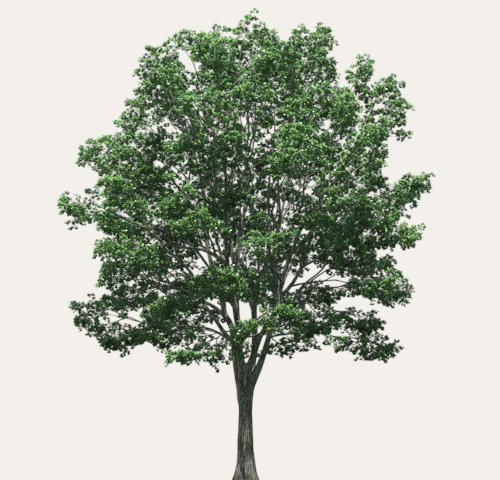
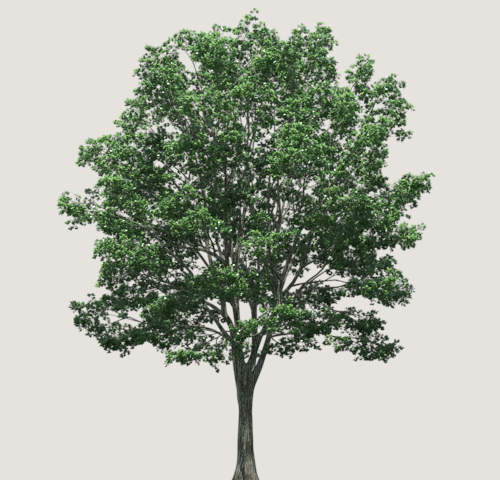
3rd section design done, work with wiki api query

diff --git a/javascript/script.js b/javascript/script.js
@@ -219,17 +219,19 @@ function showInfo(e) {
   if (text === city.querySelector(".city__information--unloaded")) {
     // console.log("unloaded");
 
+    const span = document.createElement('span');
     const info = document.createElement('p');
     const link = document.createElement('a');
     info.classList.add("info");
     link.classList.add("link");
 
-    link.innerText = "More informations";
-
     getDataFromWiki(cityName, info, link).then(function(response) {
-      text.appendChild(info);
-      text.appendChild(link);
-
+      span.append(info);
+      span.append(link);
+      text.appendChild(span);
+      // text.appendChild(link);
+      return response;
+    }).then(function(response) {
       text.classList.remove("city__information--unloaded");
       text.classList.toggle("city__information--hidden");
       return response;
@@ -243,40 +245,42 @@ function showInfo(e) {
 
 async function getDataFromWiki(cityName, info, link) {
   let url = `https://en.wikipedia.org/w/api.php?origin=*&action=opensearch&search=${cityName}&limit=1&namespace=0&format=json`;
+  // let imgUrl = `https://en.wikipedia.org/w/api.php?origin=*&format=json&action=query&prop=extracts&exintro&explaintext&redirects=1&titles=${cityName}`;
 
-  // let params = {
-  //   action: "opensearch",
-  //   search: cityName,
-  //   limit: "1",
-  //   namespace: "0",
-  //   format: "json"
-  // };
+  fetch(url).then(function(response) {
+    return response.json();
+  }).then(function(response) {
+    // console.log(response.query.pages[90580].extract);
+    console.log(response)
+  })
 
-  // url = url + "?origin=*";
-  // Object.keys(params).forEach(function(key){url += "&" + key + "=" + params[key];});
-
-  fetch(url)
-    .then(function(response){return response.json();})
-    .then(function(response) {
-      // console.log(response);
-      if (response[2][0] === "") {
-        info.innerText = "Sorry we cannot find any short information about this city. Please check full version of article here:";  
-      } else if(response[2][0] === undefined && response[3][0] === undefined){
-        info.innerText = "Sorry we cannot find any information about this city."; 
-      } else {
-        info.innerText = response[2][0];
-      }
-      return response;
-    })
-    .then(function(response) {
-      if (response[3][0] === undefined) {
-        link.classList.add("link--hidden");
-      } else {
-        link.href = response[3][0];
-      }
-      return response;
-    })
-    .catch(function(error){console.log(error);});
+  // fetch(url)
+  //   .then(function(response){
+  //     return response.json();
+  //   })
+  //   .then(function(response) {
+  //     // console.log(response);
+  //     if (response[2][0] === "") {
+  //       info.innerText = "Sorry we cannot find any short information about this city. Please check full version of article here:";  
+  //     } else if(response[2][0] === undefined && response[3][0] === undefined){
+  //       info.innerText = "Sorry we cannot find any information about this city."; 
+  //     } else {
+  //       info.innerText = response[2][0];
+  //     }
+  //     return response;
+  //   })
+  //   .then(function(response) {
+  //     if (response[3][0] === undefined) {
+  //       link.classList.add("link--hidden");
+  //     } else {
+  //       link.innerText = "More informations";
+  //       link.href = response[3][0];
+  //     }
+  //     return response;
+  //   })
+  //   .catch(function(error){
+  //     console.log(error);
+  //   });
 }
 
 

diff --git a/css/desktop.scss b/css/desktop.scss
@@ -1,4 +1,4 @@
-$light: rgb(243, 240, 235);
+$light: rgb(230, 227, 223);
 $green: rgb(27, 177, 109);
 $darkpurple: rgba(81, 59, 86, 1);
 
@@ -105,7 +105,6 @@ $darkpurple: rgba(81, 59, 86, 1);
 
         &__background {
             position: absolute;
-            // translate: transform(-50%, -50%);
             top: 0;
             left: 0;
             clip-path: polygon(0 0, 20% 0, 100% 100%, 0 100%);
@@ -115,6 +114,47 @@ $darkpurple: rgba(81, 59, 86, 1);
             background-image: url("../images/countryside-wallpaper-6.jpg");
             background-position: center;
             background-size: cover;
+        }
+    }
+
+    // main section (informations about cities)
+    .cities {
+        display: grid;
+        grid-template-columns: repeat(3, 1fr);
+        row-gap: 50px;
+        padding: 50px 15px;
+        justify-content: center;
+
+
+        .city {
+            margin: 0 auto;
+            min-height: 100px;
+
+            &__header {
+                // margin-top: 15px;
+                // margin-bottom: 15px;
+                font-size: 3rem;
+            }
+
+            &:nth-child(odd) {
+                grid-column: 1/3;
+            }
+
+            &:nth-child(even) {
+                grid-column: 2/4;
+            }
+
+            &__information {
+                font-size: 2rem;
+
+                .info {
+                    font-size: 2rem;
+                }
+
+                .link {
+                    margin-bottom: 15px;
+                }
+            }
         }
     }
 }

diff --git a/css/desktop.css b/css/desktop.css
@@ -61,7 +61,7 @@
   }
   .navigation .choice__button:hover {
     background-color: #513b56;
-    color: #f3f0eb;
+    color: #e6e3df;
   }
   .navigation .choice .disabled {
     border-color: grey;
@@ -83,5 +83,34 @@
     background-image: url("../images/countryside-wallpaper-6.jpg");
     background-position: center;
     background-size: cover;
+  }
+  .cities {
+    display: grid;
+    grid-template-columns: repeat(3, 1fr);
+    row-gap: 50px;
+    padding: 50px 15px;
+    justify-content: center;
+  }
+  .cities .city {
+    margin: 0 auto;
+    min-height: 100px;
+  }
+  .cities .city__header {
+    font-size: 3rem;
+  }
+  .cities .city:nth-child(odd) {
+    grid-column: 1/3;
+  }
+  .cities .city:nth-child(even) {
+    grid-column: 2/4;
+  }
+  .cities .city__information {
+    font-size: 2rem;
+  }
+  .cities .city__information .info {
+    font-size: 2rem;
+  }
+  .cities .city__information .link {
+    margin-bottom: 15px;
   }
 }

diff --git a/css/style.scss b/css/style.scss
@@ -1,4 +1,4 @@
-$light: rgb(243, 240, 235);
+$light: rgb(230, 227, 223);
 $green: rgb(27, 177, 109);
 $darkpurple: rgba(81, 59, 86, 1);
 $fullscreen: calc(var(--vh, 1vh) * 100);
@@ -203,7 +203,7 @@ body {
 
 .city {
     background-color: rgba(156, 155, 150, 0.151);
-    padding: 10px 5px;
+    padding: 20px 5px;
     height: auto;
     width: 90%;
     color: $green;

diff --git a/css/style.css b/css/style.css
@@ -13,7 +13,7 @@
 
 body {
   width: 100vw;
-  background-color: #f3f0eb;
+  background-color: #e6e3df;
   overflow-x: hidden;
 }
 
@@ -187,7 +187,7 @@ body {
 
 .city {
   background-color: rgba(156, 155, 150, 0.151);
-  padding: 10px 5px;
+  padding: 20px 5px;
   height: auto;
   width: 90%;
   color: #1bb16d;

diff --git a/index.html b/index.html
@@ -46,9 +46,6 @@
         <div class="navigation__background"></div>
     </nav>
 
-    <div id="wiki"></div>
-
-
     <!-- Our js script import -->
     <script type="text/javascript" src="javascript/script.js"></script>
 </body>
